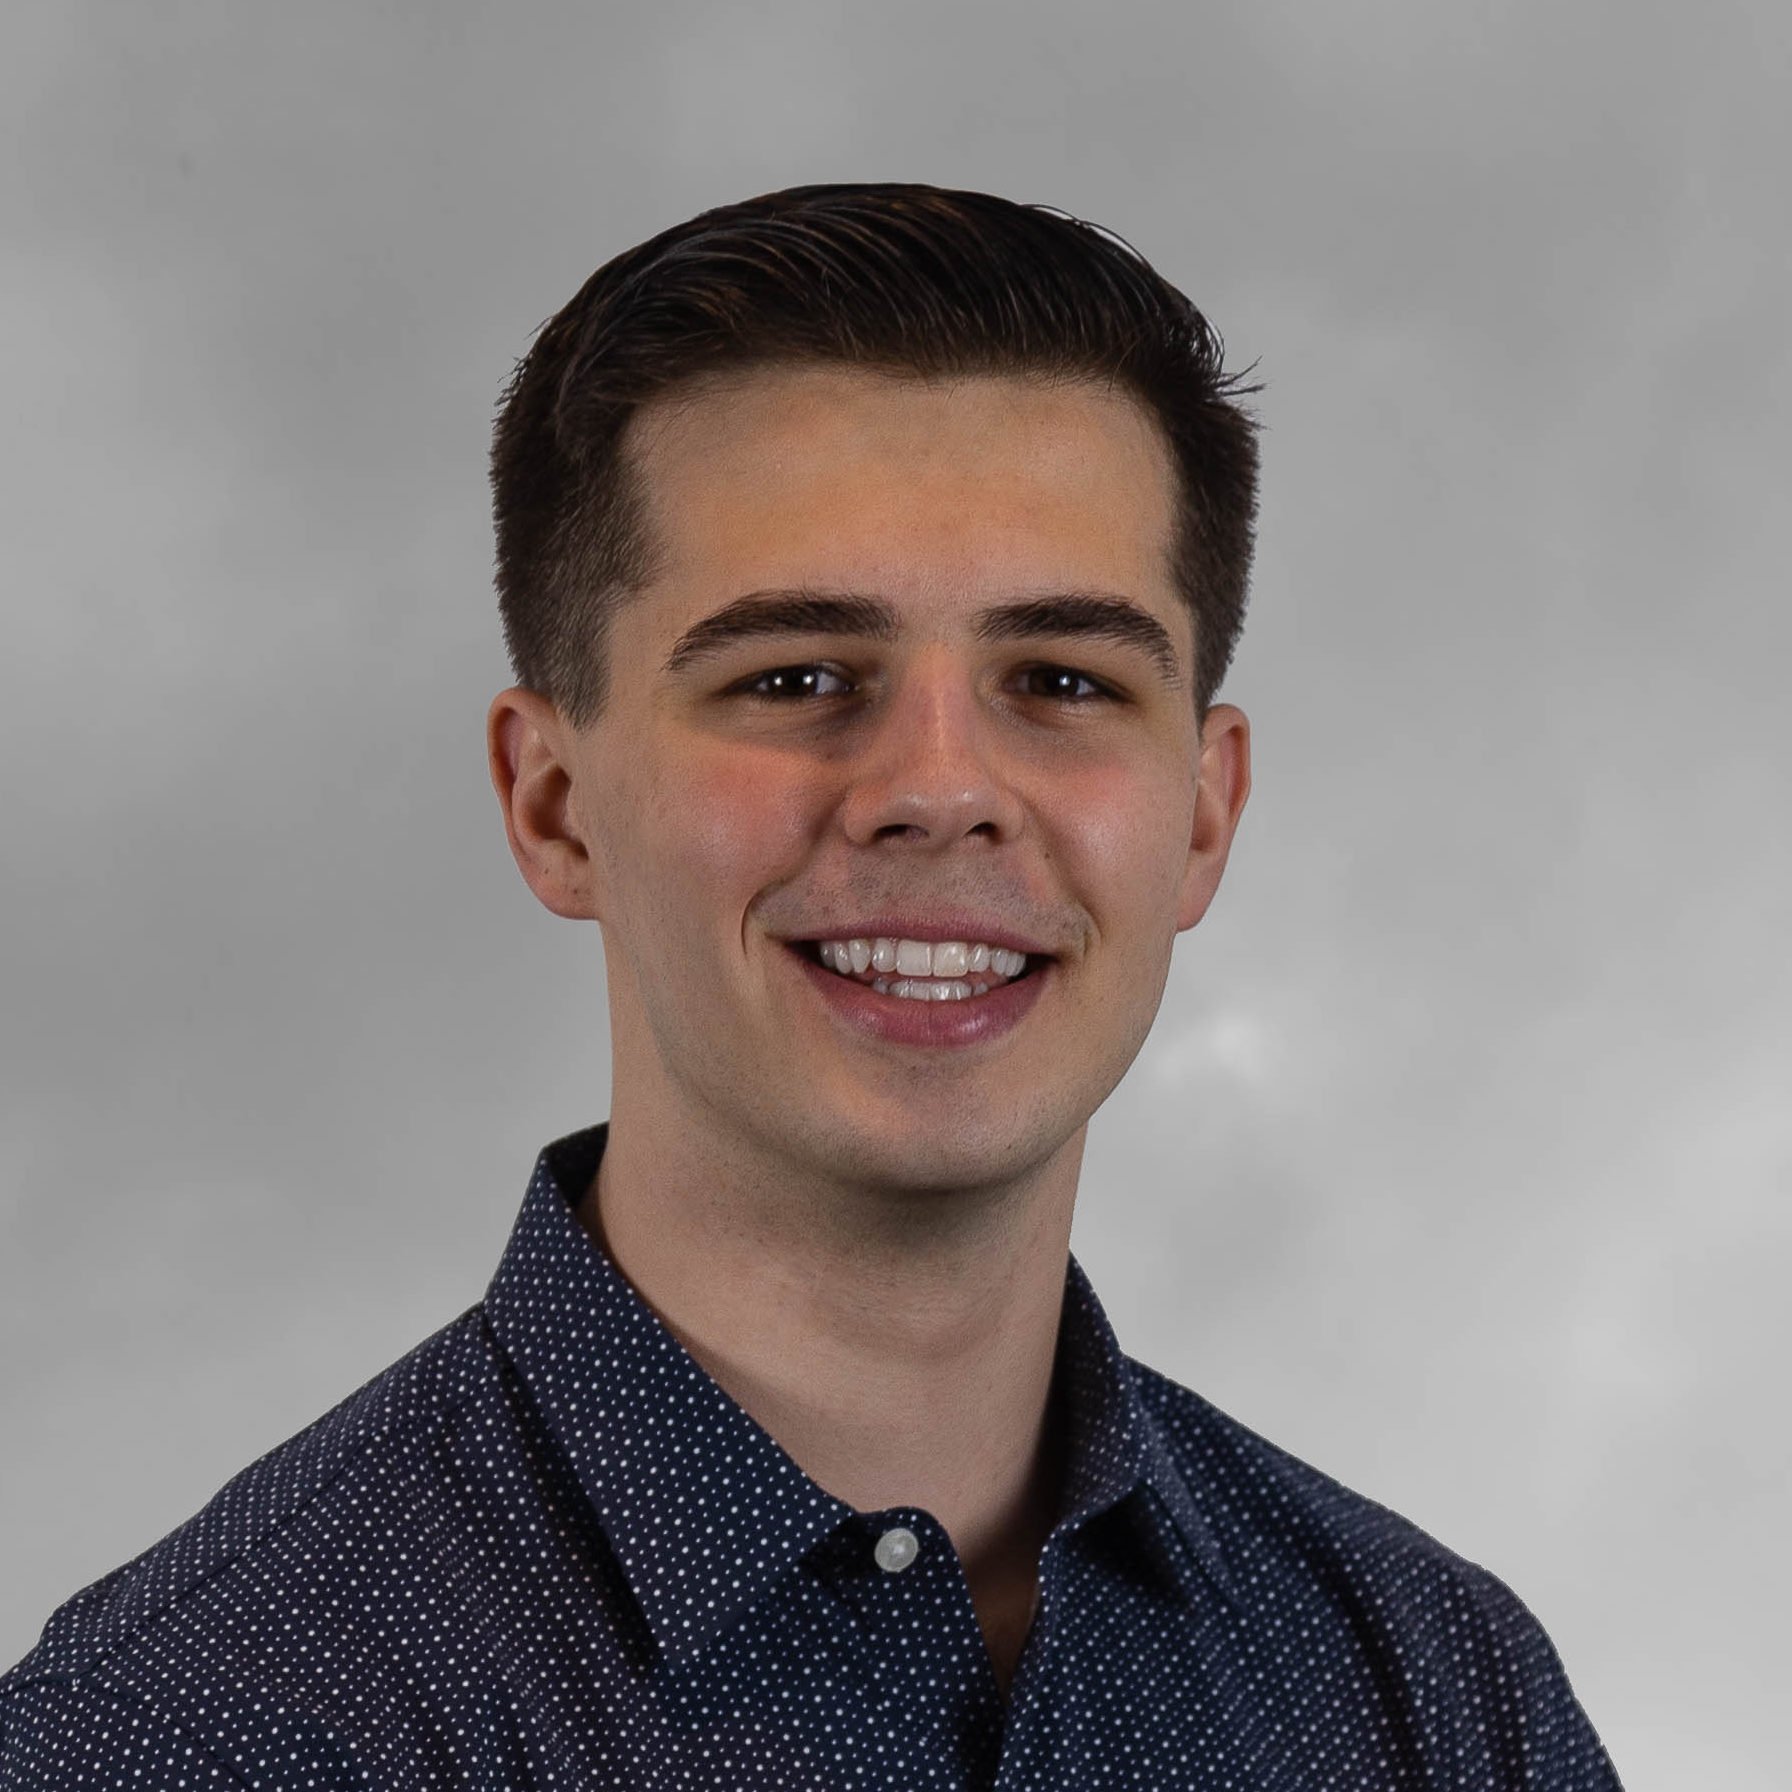
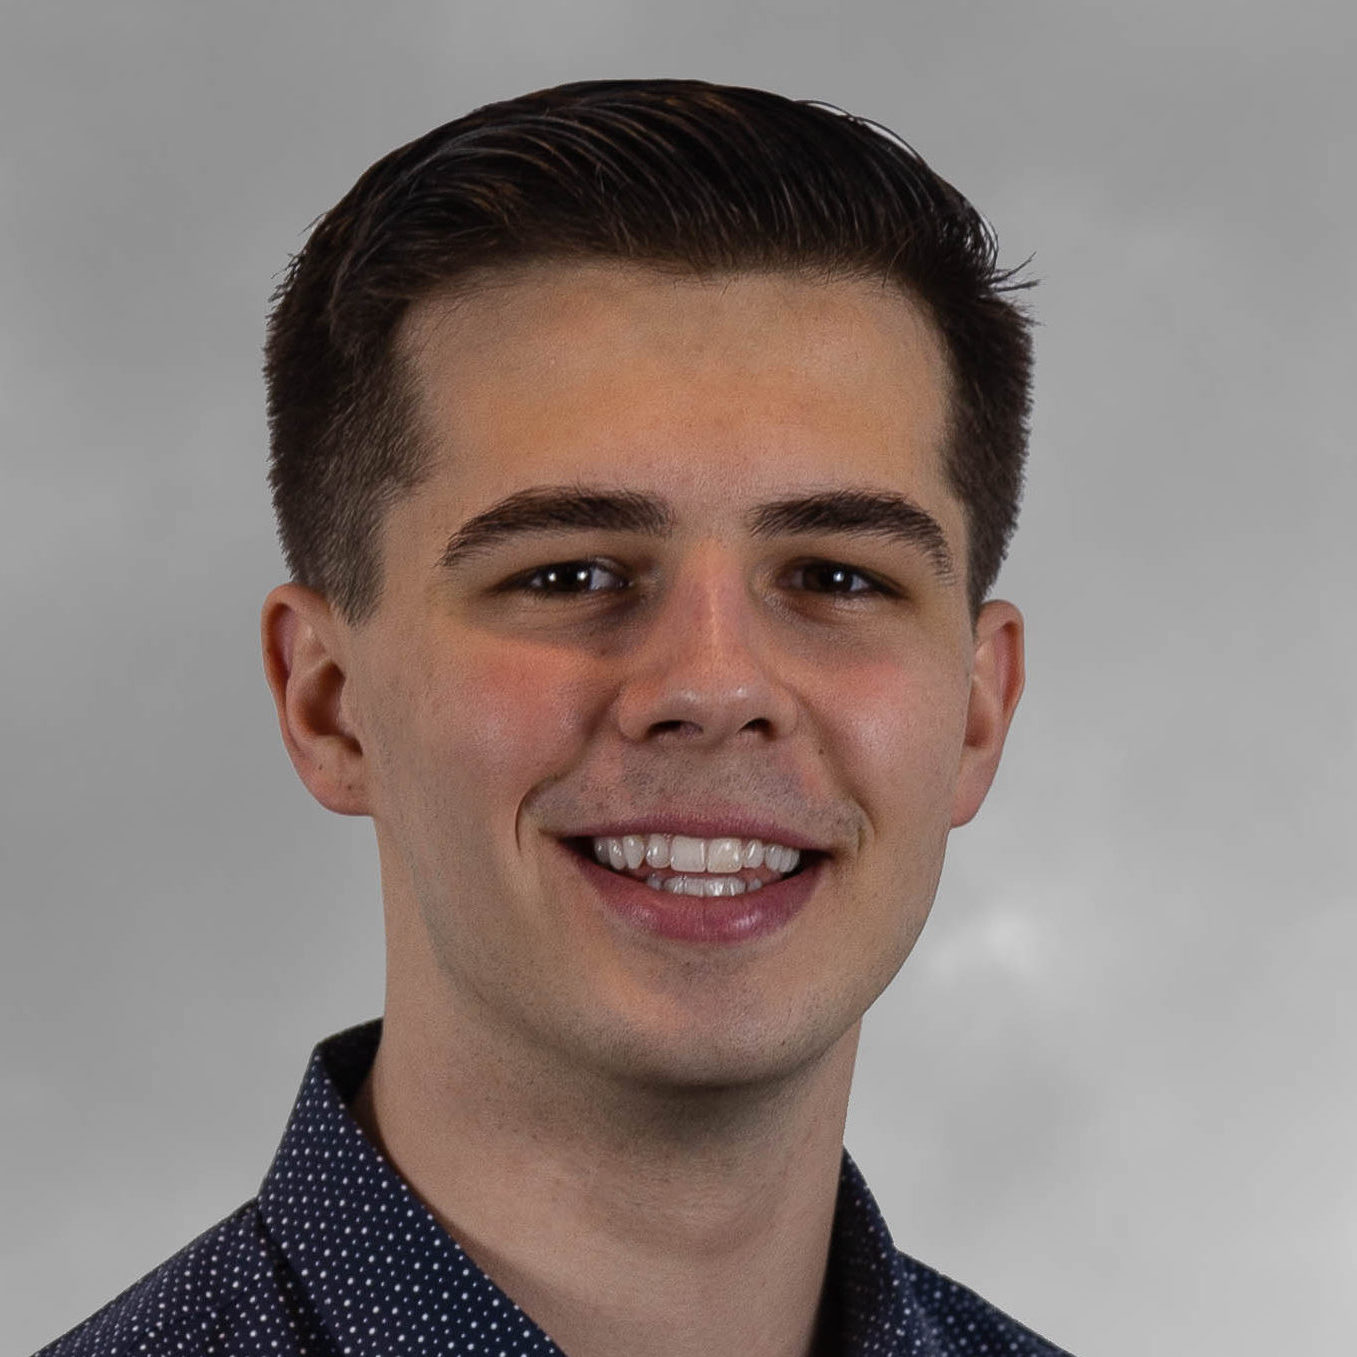
style improvements re: links, colors, buttons

diff --git a/src/pages/About/About.tsx b/src/pages/About/About.tsx
@@ -8,9 +8,9 @@ const About = () => {
     <div id="about">
       <div className="about-content">
         <p className="about-paragraph">
-          My name is Connor McCarthy and I am senior engineering student at
-          Cornell University currently looking for a full-time software
-          engineering opportunity to join upon my graduation in May.
+          I&apos;m Connor, a senior engineering student at Cornell University
+          currently looking for a full-time software engineering opportunity to
+          join upon my graduation in May.
         </p>
         <p className="about-paragraph">
           I have experience working with large scale distributed systems at{' '}
@@ -20,7 +20,7 @@ const About = () => {
           Places team at <Link to="/#SafeGraph">SafeGraph</Link>, helping to
           improve the deduplication algorithm and pipeline responsible for their{' '}
           <a href="https://www.safegraph.com/blog/the-importance-of-reliable-accurate-and-timely-open-and-close-metadata-for-pois">
-            &quot;open/closed&quot;
+            open/closed
           </a>{' '}
           product.
         </p>
@@ -51,11 +51,9 @@ const About = () => {
         </p>
         <p className="about-paragraph" style={{ paddingBottom: 0 }}>
           Please feel free to reach out to me at{' '}
-          <a href="mailto:connor15mcc@gmail.com">connor15mcc@gmail.com</a> or{' '}
-          <a href="https://www.linkedin.com/in/connormccarthy15/">
-            connect with me on Linkedin
-          </a>
-          .
+          <a href="mailto:connor15mcc@gmail.com">connor15mcc@gmail.com</a> or
+          connect with me on{' '}
+          <a href="https://www.linkedin.com/in/connormccarthy15/">Linkedin</a>.
         </p>
       </div>
     </div>

diff --git a/src/App.css b/src/App.css
@@ -7,29 +7,33 @@ body {
   overflow-y: scroll;
 }
 
-@media only screen and (max-width: 450px) {
+@media only screen and (max-width: 520px) {
   body {
-    font-size: 3vw;
+    font-size: 2.8vw;
   }
 }
 
-.main-container a {
-  background-color: hsla(0, 0%, 50%, 0.2);
-}
-
-a {
+a,
+.underline-hover {
   position: relative;
-  border-radius: 0.2em;
 
-  background-image: linear-gradient(var(--primary-color), var(--primary-color));
-  background-position: 0% 100%;
+  background-image: none,
+    linear-gradient(var(--primary-color), var(--primary-color));
+  background-size: 100% 0.15em, 0 0.15em;
+  background-position: 100% 100%, 0 100%;
   background-repeat: no-repeat;
-  background-size: 0% 0.2em;
-  transition: 0.3s;
+  transition: background-size 0.3s ease;
 }
 
-a:hover {
-  background-size: 100% 0.2em;
+.main-container a,
+.underline-hover {
+  background-image: linear-gradient(var(--link-color), var(--link-color)),
+    linear-gradient(var(--primary-color), var(--primary-color));
+}
+
+a:hover,
+.underline-hover:hover {
+  background-size: 0 0.15em, 100% 0.15em;
 }
 
 button:hover,
@@ -39,7 +43,9 @@ button:focus {
 
 :root {
   --primary-color: #e0be56;
-  --secondary-color: #2a3763;
+  --secondary-color: #121b3c;
+
+  --link-color: #3f54a0;
 
   --lll-gray: #eee;
   --ll-gray: #ccc;

diff --git a/src/pages/Home/Home.css b/src/pages/Home/Home.css
@@ -20,16 +20,15 @@
 .home-picture {
   float: left;
 
-  width: 9em;
-  height: 9em;
+  height: 11em;
+  aspect-ratio: 1 / 1;
   margin-right: 1em;
 
-  border: 0.3em solid var(--primary-color);
   border-radius: 50%;
 }
 
 .home-name {
-  font-size: 5em;
+  font-size: 6em;
   font-weight: 600;
   color: var(--primary-color);
 }
@@ -48,9 +47,8 @@
 .home-button {
   color: var(--primary-color);
   font-weight: bold;
-  border: 0.2em solid var(--primary-color);
   border-radius: 0.2em;
-  background-color: rgba(0, 0, 0, 0.4);
+  background-color: rgba(0, 0, 0, 0.5);
   margin-top: 1em;
   padding: 0.5em 1em;
   text-align: center;

diff --git a/src/pages/Home/Home.tsx b/src/pages/Home/Home.tsx
@@ -22,7 +22,7 @@ const Home = (props: Basics) => {
       <p className="home-tagline">{props.tagline}</p>
       <div>
         <button
-          className="home-button"
+          className="home-button underline-hover"
           onClick={() => navigate('/#experience')}
         >
           View Experience

diff --git a/src/pages/Resume/Resume.css b/src/pages/Resume/Resume.css
@@ -15,7 +15,7 @@
   font-size: 2em;
   text-align: center;
   font-weight: bold;
-  margin: 0.75em 0;
+  margin: 0.5em 0;
 }
 
 .resume-subsection {
